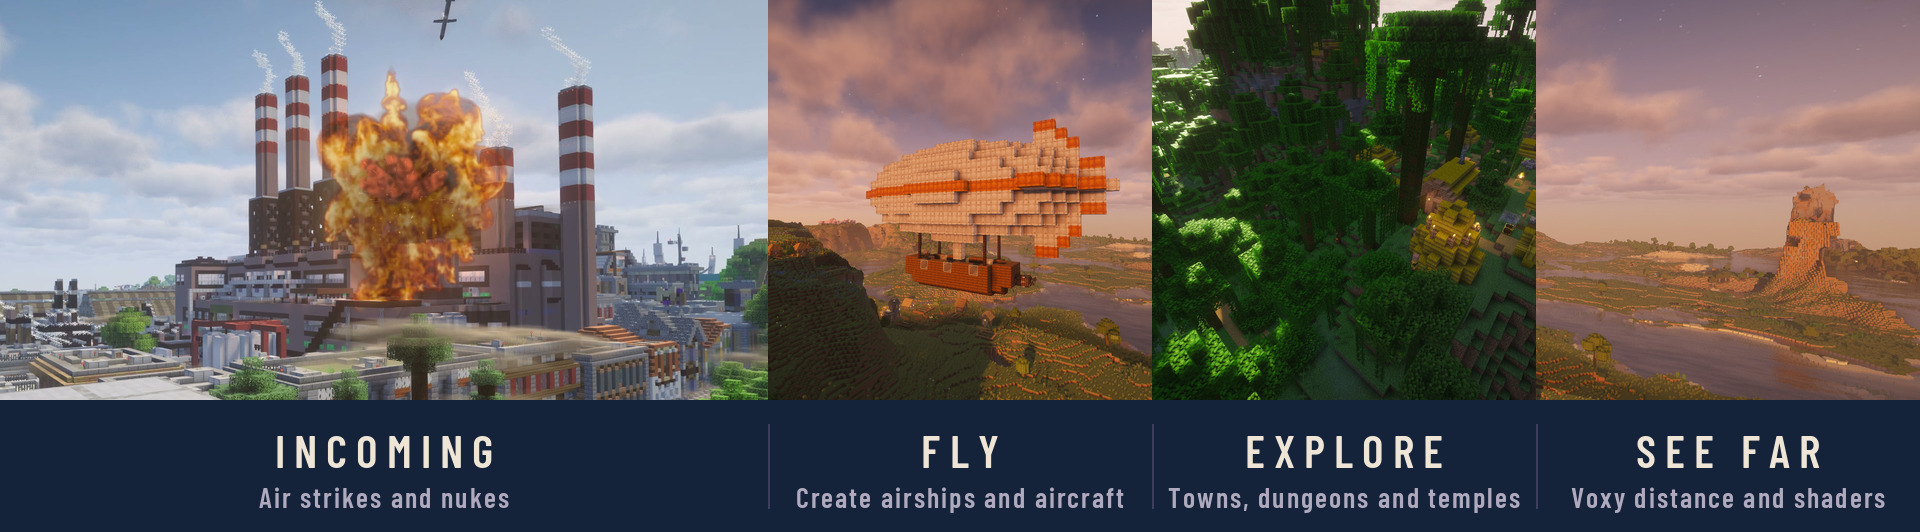
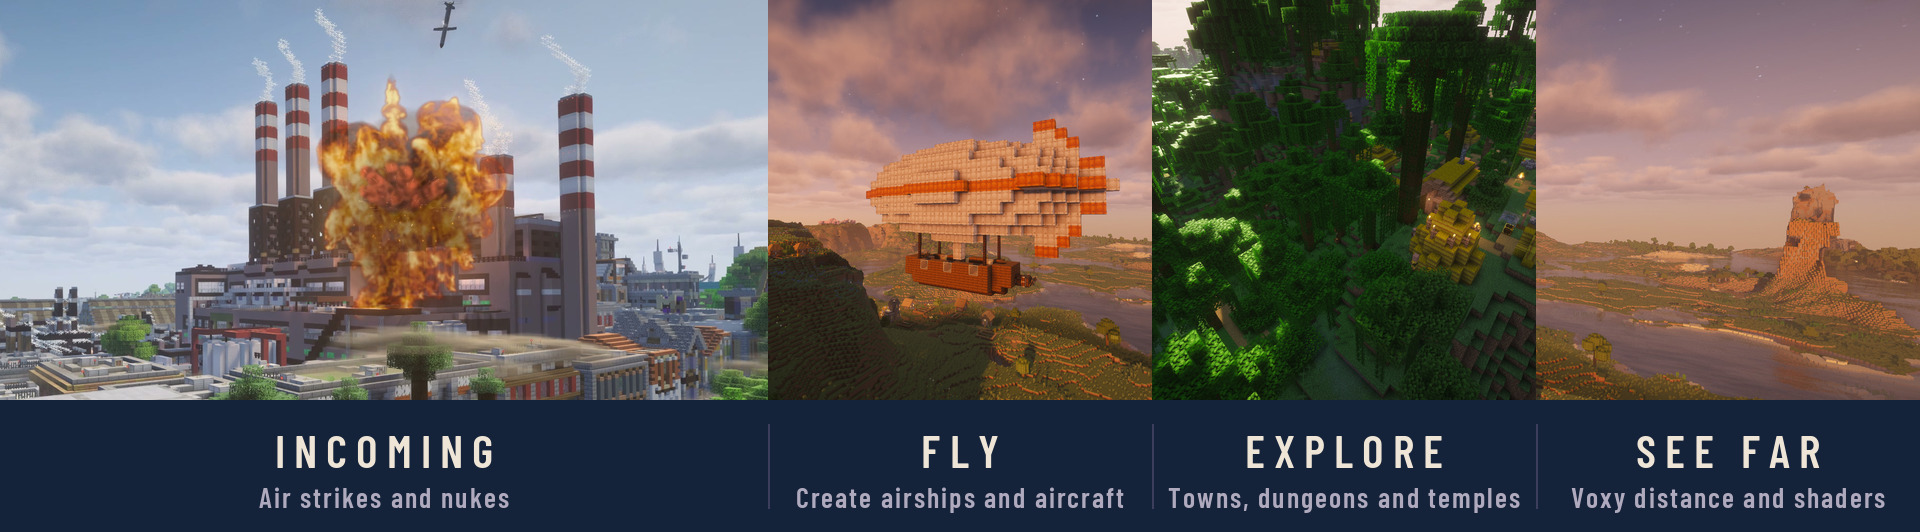
Brand review fixes: alt texts, airship over sky cells only, strip crop keeps the missile, src notes

diff --git a/docs/media/src/icon.py b/docs/media/src/icon.py
@@ -66,9 +66,10 @@ SHIP = [   # small airship with an outline, bow left
 ]
 
 def stamp(g, sprite, x0, y0):
+    """Paint the sprite over sky cells only: Incoming's cloud and ground stay intact."""
     for y, row in enumerate(sprite):
         for x, c in enumerate(row):
-            if c != '.':
+            if c != '.' and g[y0 + y][x0 + x] in SKY_CELLS | set(DAY):
                 g[y0 + y][x0 + x] = c
 
 def image(g):

diff --git a/docs/media/src/compose.py b/docs/media/src/compose.py
@@ -59,7 +59,7 @@ def tagline(im, xy, text, size=44, spacing=17, fill=CREAM):
     return im, end
 
 def save(im, out):
-    os.makedirs(os.path.dirname(out), exist_ok=True)
+    os.makedirs(os.path.dirname(out) or '.', exist_ok=True)
     im = im.convert('RGB')
     if out.endswith('.png'):
         im.save(out)

diff --git a/docs/media/src/README.md b/docs/media/src/README.md
@@ -17,9 +17,10 @@ official modpack carries the mod's mark).
   INCOMING MODPACK" in Barlow Condensed SemiBold (SIL OFL 1.1), on a navy shade over an in-game frame of an Incoming
   cruise missile strike under a day sky: `still-2.jpg` from Incoming's own media
   ([zentixua/incoming docs/media](https://github.com/zentixua/incoming/tree/main/docs/media)), taken in Incoming's test
-  world. `python3 banner.py still-2.jpg 860 250 1.12 ../banner.jpg`.
+  world; download it into `src/` and run every command from `src/`. `python3 banner.py still-2.jpg 860 250 1.12
+  ../banner.jpg`.
 - **Strip** ([features.py](features.py)): Incoming first and twice as wide (the same `still-2.jpg`), then three gallery
-  frames: `python3 features.py ../features.jpg 'still-2.jpg|1150|400|INCOMING|Air strikes and nukes|2|1.3'
+  frames: `python3 features.py ../features.jpg 'still-2.jpg|1150|380|INCOMING|Air strikes and nukes|2|1.3'
   '../gallery/airship.jpg|960|540|FLY|Create airships and aircraft'
   '../gallery/jungle-village.jpg|900|560|EXPLORE|Towns, dungeons and temples'
   '../gallery/airship-valley.jpg|1574|480|SEE FAR|Voxy distance and shaders|1|1.5'`.

diff --git a/README.md b/README.md
@@ -1,5 +1,5 @@
 <p align="center">
-  <img src="docs/media/banner.jpg" alt="Open Skies, the official Incoming modpack: an Incoming cruise missile strike under a clear sky">
+  <img src="docs/media/banner.jpg" alt="Open Skies, the official Incoming modpack: an Incoming cruise missile strike under a day sky">
 </p>
 
 <p align="center">
@@ -19,7 +19,7 @@ Open Skies is a survival sandbox about a world worth defending. Settle down, bui
 and fly anywhere: flight is how you travel. When you choose to fight, Incoming lets you aim through binoculars at
 anything you can see and send a drone, a salvo of cruise missiles or a nuclear ICBM.
 
-![What's inside: fly, strike, explore, see far](docs/media/features.jpg)
+![What's inside: Incoming, fly, explore, see far](docs/media/features.jpg)
 
 ## What you can do
 
